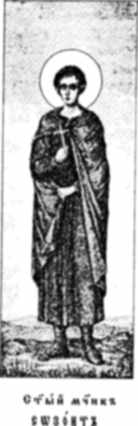
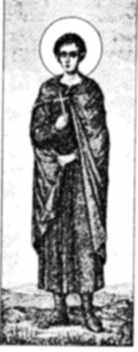
The lifespan line clears the bookmark, and Sozon's scan loses its margin
An imageless index card's lifespan truncated behind the mark rather than
before it: the two share a right edge by construction and nothing had taken
the mark's 32 px out of the line. That width is reserved now, on that card
shape alone — a card with an image carries the mark over the picture, and a
row's mark is a flex sibling with its own column. Placilla the Empress is
the real case the test asks for.

Sozon's icon is cropped to the figure (555x1707 to 555x1410): the fetched
scan carried a stippled margin above the halo and the printed caption below
the feet, and the hero's 3:2 top crop was landing on the margin. The full
scan remains at the source_url in icon.meta.json.

diff --git a/e2e/quality-floor.spec.js b/e2e/quality-floor.spec.js
@@ -2861,6 +2861,43 @@ test('a card lifespan is one line, ending in an ellipsis where three across woul
   expect(await nothingCropped(page)).toEqual([]);
 });
 
+test('a card lifespan stops before the bookmark, not behind it', async ({ page }) => {
+  /*
+   * Raised by looking at a screenshot (HANDOFF's queue): a long lifespan line
+   * on an imageless card truncates *behind* the bookmark rather than clearing
+   * it, so the ellipsis sits under the mark. Nothing reserved the mark's own
+   * width out of the line — `.index-card > .bookmark` and `.index-dates` share
+   * a right edge by construction, both measured from the card's own padding
+   * box, so the mark's 32 px was always going to sit over whichever
+   * characters happened to render there.
+   *
+   * Placilla the Empress is a real example, not a constructed one: she has no
+   * image, and both ends of her death are recorded ("Reposed under
+   * Theodosius I (379–395)"), long enough to overflow a three-across card at
+   * 1280 px — and she is venerated only in the Greek calendar, which is why
+   * this test asks for it rather than the Russian `ready()` default.
+   */
+  await ready(page, { church: 'greek' });
+  await page.setViewportSize({ width: 1280, height: 900 });
+  await page.goto(INDEX, { waitUntil: 'networkidle' });
+  await page.evaluate(() => document.fonts.ready);
+  await page.locator('[data-query]').fill('Placilla');
+  const card = page.locator('.index-card', { hasText: 'Placilla' });
+  await expect(card).toHaveCount(1);
+  const geo = await card.evaluate((el) => {
+    const datesEl = el.querySelector('.index-dates');
+    const dates = datesEl.getBoundingClientRect();
+    const contentRight = dates.right - parseFloat(getComputedStyle(datesEl).paddingRight);
+    return {
+      overflowing: datesEl.scrollWidth > datesEl.clientWidth,
+      contentRight,
+      markLeft: el.querySelector('.bookmark').getBoundingClientRect().left,
+    };
+  });
+  expect(geo.overflowing, 'the line is not actually long enough to exercise this').toBe(true);
+  expect(geo.contentRight, 'the ellipsis lands behind the mark').toBeLessThanOrEqual(geo.markLeft);
+});
+
 test('the grid follows its column, not only the window', async ({ page }) => {
   // Literata arriving inside font-display: optional's window widens the 72ch
   // column from 580 to 678 px after the grid has counted its columns, and a

diff --git a/src/styles/index.css b/src/styles/index.css
@@ -455,6 +455,21 @@ select:hover {
   top: 50px;
 }
 
+/* "the one line of the block that is short" above is not always true: a
+   saint with both ends of a life dated prints "{birth} – {death}", and one
+   long enough — a full day, month and year at each end, or a "Reposed under
+   {ruler} ({earliest}–{latest})" — reaches the card's own right padding edge,
+   which is exactly where the mark stands. Nothing had reserved the mark's own
+   width out of the line before this, so the ellipsis truncated *behind* the
+   icon instead of clearing it. The mark's footprint — 32 px, plus a few more
+   so the ellipsis does not sit flush against it — is reserved here instead.
+   Only this card shape needs it: a card with an image has the mark over the
+   picture, and a row's mark is a flex sibling that already takes its own
+   column out of the line's width. */
+.index-card:not(.is-row):not(:has(.index-media)) .index-dates {
+  padding-right: 40px;
+}
+
 /* ---- rows -------------------------------------------------------------- */
 
 /* The other half of ROW_HEIGHT in views/saints.js: a 48 px thumbnail plus the
